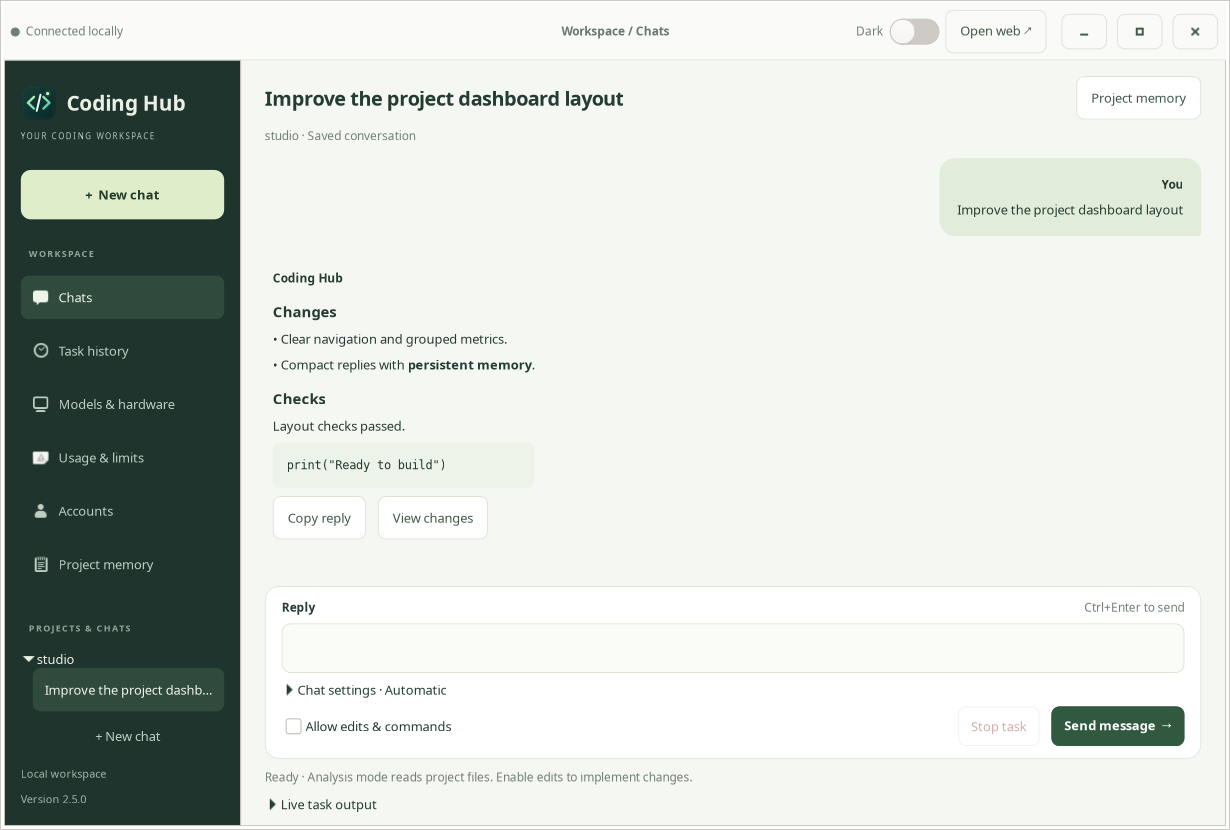
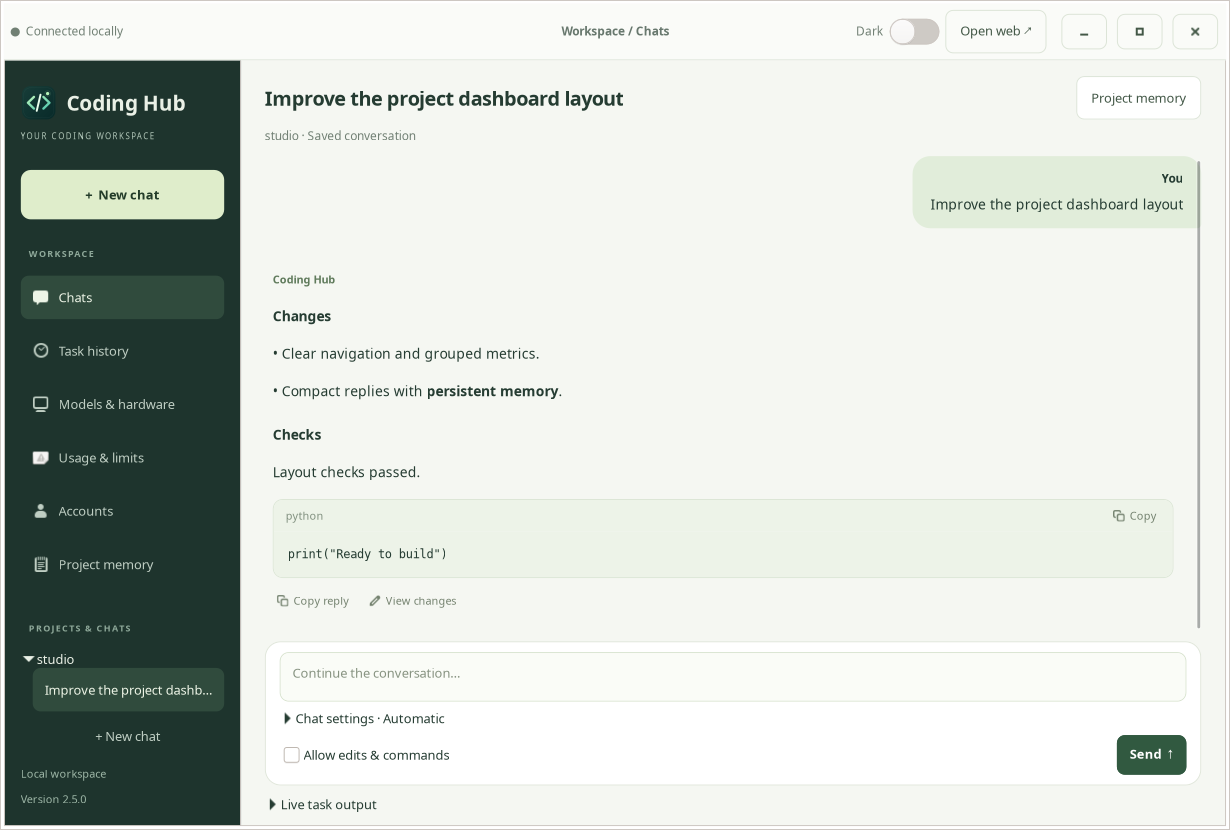
Polish native conversations and fix desktop browser launching

diff --git a/assets/desktop.css b/assets/desktop.css
@@ -97,3 +97,22 @@ window.dark { background: #151d1a; color: #e1e9e3; }
 .assistant-message, .dark .assistant-message { background: transparent; border: none; padding: 14px 8px; }
 .review-code { font-size: 12px; padding: 12px; }
 .dark .review-code text { background: #131e17; color: #e1e9e3; }
+
+/* Match the browser's quiet conversation controls and wide reading area. */
+.conversation-page .composer { padding: 10px 14px; border-radius: 16px; }
+.conversation-page .message-row { padding: 6px 0; }
+.reply-text { font-size: 14px; }
+.assistant-message .chat-title { color: #607b5c; font-size: 11px; }
+.dark .assistant-message .chat-title { color: #b2cba3; }
+.user-message { padding: 14px 18px; border-radius: 18px 18px 4px 18px; }
+.message-action, .dark .message-action { min-height: 0; min-width: 0; padding: 3px 4px; border: none; border-radius: 4px; box-shadow: none; background: transparent; color: #74826f; font-size: 11px; font-weight: 400; }
+.message-action:hover { background: #eaf0e5; color: #365538; }
+.dark .message-action { color: #9daf9e; }
+.dark .message-action:hover { background: #263b2b; color: #d6e8cf; }
+.reply-code-frame { border: 1px solid #dce6d6; border-radius: 10px; margin-top: 4px; margin-bottom: 4px; }
+.reply-code-heading { background: #edf3e8; padding: 5px 12px; border-radius: 9px 9px 0 0; }
+.reply-code-frame .reply-code { padding: 14px; border-radius: 0 0 9px 9px; font-size: 12px; }
+.dark .reply-code-frame { border-color: #354b39; }
+.dark .reply-code-heading { background: #293d2c; }
+.prompt-placeholder { color: #879381; font-size: 13px; }
+.dark .prompt-placeholder { color: #99aa99; }

diff --git a/desktop.py b/desktop.py
@@ -13,7 +13,6 @@ import sys
 import time
 import urllib.error
 import urllib.request
-import webbrowser
 
 import dashboard
 import hub
@@ -44,10 +43,36 @@ def ensure_server(port=8765):
     raise RuntimeError("The dashboard could not start. Check " + str(directory / "server.log"))
 
 
+def prepare_browser_environment():
+    """Include desktop registrations omitted by minimal SSH launch environments."""
+    existing = os.environ.get('XDG_DATA_DIRS', '/usr/local/share:/usr/share').split(':')
+    candidates = [Path.home()/'.local/share/flatpak/exports/share',
+                  Path('/var/lib/flatpak/exports/share'), Path('/var/lib/snapd/desktop')]
+    additions = [str(path) for path in candidates if path.is_dir() and str(path) not in existing]
+    os.environ['XDG_DATA_DIRS'] = ':'.join(existing + additions)
+
+
+def launch_browser(Gtk, Gdk, Gio, parent, url, finished):
+    """Launch through the desktop session and report asynchronous failure."""
+    if hasattr(Gtk, 'UriLauncher'):
+        launcher = Gtk.UriLauncher.new(url)
+        def complete(source, result, *_):
+            try: finished(bool(source.launch_finish(result)), None)
+            except Exception as error: finished(False, str(error))
+        launcher.launch(parent, None, complete)
+    else:
+        context = Gdk.Display.get_default().get_app_launch_context()
+        def complete(source, result, *_):
+            try: finished(bool(Gio.AppInfo.launch_default_for_uri_finish(result)), None)
+            except Exception as error: finished(False, str(error))
+        Gio.AppInfo.launch_default_for_uri_async(url, context, None, complete)
+
+
 def launch(port=8765):
     if not sys.platform.startswith("linux"):
         print("The native app requires Linux. Opening the browser interface on this platform.")
         return dashboard.serve(port)
+    prepare_browser_environment()
     try:
         import gi
         gi.require_version("Gtk", "4.0")
@@ -81,7 +106,7 @@ def launch(port=8765):
     return application.run([])
 
 
-def create_application(Gtk, Gdk, Gio, GLib, api, url):
+def create_application(Gtk, Gdk, Gio, GLib, api, url, browser_launcher=None):
     """Build native widgets independently of transport for isolated UI validation."""
     from gi.repository import Pango
     routes = ("auto", "antigravity", "free", "local", "smart", "claude", "openai")
@@ -191,7 +216,8 @@ def create_application(Gtk, Gdk, Gio, GLib, api, url):
             self.connection = self.label('Connecting…', 'muted')
             self.connection.set_wrap(False)
             header.pack_start(self.connection)
-            header.pack_end(self.button('Open web ↗', lambda *_: webbrowser.open(url)))
+            self.open_web_button = self.button('Open web ↗', self.open_web)
+            header.pack_end(self.open_web_button)
             self.theme_switch = Gtk.Switch(valign=Gtk.Align.CENTER)
             self.theme_switch.set_tooltip_text('Dark mode')
             theme_row = self.row(7)
@@ -284,7 +310,7 @@ def create_application(Gtk, Gdk, Gio, GLib, api, url):
             project_row.append(self.browse_button)
             self.project_card.append(project_row)
             body.append(self.project_card)
-            self.chat_messages = Gtk.Box(orientation=Gtk.Orientation.VERTICAL, spacing=12)
+            self.chat_messages = Gtk.Box(orientation=Gtk.Orientation.VERTICAL, spacing=18)
             self.chat_scroll = Gtk.ScrolledWindow(min_content_height=120, vexpand=True)
             self.chat_scroll.set_policy(Gtk.PolicyType.NEVER, Gtk.PolicyType.AUTOMATIC)
             self.chat_scroll.set_child(self.chat_messages)
@@ -302,6 +328,7 @@ def create_application(Gtk, Gdk, Gio, GLib, api, url):
             self.composer = composer
             self.composer_title = self.label('Your message', 'section-title')
             composer_heading = self.row()
+            self.composer_heading = composer_heading
             self.composer_title.set_hexpand(True)
             composer_heading.append(self.composer_title)
             composer_heading.append(self.label('Ctrl+Enter to send', 'muted'))
@@ -314,7 +341,17 @@ def create_application(Gtk, Gdk, Gio, GLib, api, url):
             prompt_scroll = self.prompt_scroll
             prompt_scroll.add_css_class('input-frame')
             prompt_scroll.set_child(self.prompt)
-            composer.append(prompt_scroll)
+            overlay = Gtk.Overlay()
+            overlay.set_child(prompt_scroll)
+            self.prompt_placeholder = self.label('Describe what you want to build, fix, or understand…', 'prompt-placeholder')
+            self.prompt_placeholder.set_halign(Gtk.Align.START)
+            self.prompt_placeholder.set_valign(Gtk.Align.START)
+            self.prompt_placeholder.set_margin_start(13)
+            self.prompt_placeholder.set_margin_top(12)
+            self.prompt_placeholder.set_can_target(False)
+            overlay.add_overlay(self.prompt_placeholder)
+            self.prompt.get_buffer().connect('changed', lambda buffer: self.prompt_placeholder.set_visible(buffer.get_char_count() == 0))
+            composer.append(overlay)
             options = self.row()
             route_label = self.label('Route', 'muted')
             route_label.set_wrap(False)
@@ -347,7 +384,8 @@ def create_application(Gtk, Gdk, Gio, GLib, api, url):
             footer.append(Gtk.Box(hexpand=True))
             self.stop_button = self.button('Stop task', self.stop, 'danger')
             self.stop_button.set_sensitive(False)
-            self.run_button = self.button('Send message  →', self.run_task, 'primary')
+            self.stop_button.set_visible(False)
+            self.run_button = self.button('Send  ↑', self.run_task, 'primary')
             footer.append(self.stop_button)
             footer.append(self.run_button)
             composer.append(footer)
@@ -478,6 +516,9 @@ def create_application(Gtk, Gdk, Gio, GLib, api, url):
             self.project.set_editable(not existing)
             self.browse_button.set_sensitive(not existing)
             self.composer_title.set_text('Reply' if existing else 'Your message')
+            self.composer_heading.set_visible(not existing)
+            self.prompt_placeholder.set_text('Continue the conversation…' if existing else 'Describe what you want to build, fix, or understand…')
+            self.activity.set_visible(not existing)
             self.prompt_scroll.set_min_content_height(48 if existing else 72)
             self.chat_footnote.set_visible(not existing)
             if self.chat_layout != existing:
@@ -669,6 +710,8 @@ def create_application(Gtk, Gdk, Gio, GLib, api, url):
             elapsed = int((task.get("ended_at") or time.time()) - (task.get("started_at") or task["created_at"]))
             self.activity.set_text(f"{task['status'].capitalize()} · {elapsed // 60}m {elapsed % 60}s · {task['backend']} · {task['project']}")
             self.stop_button.set_sensitive(task["status"] in ("queued", "running"))
+            self.stop_button.set_visible(task['status'] in dashboard.ACTIVE)
+            self.output_details.set_label('Task activity · ' + task['status'].replace('_', ' ').capitalize() + ' · ' + str(elapsed // 60) + 'm ' + str(elapsed % 60) + 's')
             output = task.get("output", "")
             if output != self.last_output:
                 self.last_output = output
@@ -811,18 +854,22 @@ def create_application(Gtk, Gdk, Gio, GLib, api, url):
                 user = role == 'You'
                 row = self.row(0)
                 row.add_css_class('message-row')
+                row.set_hexpand(True)
                 card = Gtk.Box(orientation=Gtk.Orientation.VERTICAL, spacing=8)
-                card.set_halign(Gtk.Align.END if user else Gtk.Align.START)
+                card.set_halign(Gtk.Align.END if user else Gtk.Align.FILL)
+                card.set_hexpand(not user)
                 card.add_css_class('user-message' if user else 'assistant-message')
                 speaker = self.label(role, 'chat-title')
                 speaker.set_xalign(1 if user else 0)
                 card.append(speaker)
-                for kind, value in ([('paragraph', text)] if user else blocks(text)):
+                for kind, value in ([('paragraph', text)] if user else blocks(text, with_languages=True)):
+                    language, value = value if kind == 'code' else ('', value)
                     content = self.label(value)
                     content.set_selectable(True)
-                    content.set_max_width_chars(56 if user else 72)
+                    content.set_max_width_chars(56 if user else -1)
+                    content.add_css_class('reply-text')
                     if not user and kind != 'code':
-                        content.set_markup(inline_markup(value))
+                        content.set_markup('<span line_height="1.5">' + inline_markup(value) + '</span>')
                     if kind == 'heading':
                         content.add_css_class('reply-heading')
                     if kind == 'code':
@@ -831,18 +878,28 @@ def create_application(Gtk, Gdk, Gio, GLib, api, url):
                         code_scroll = Gtk.ScrolledWindow(max_content_height=220, propagate_natural_height=True)
                         code_scroll.set_policy(Gtk.PolicyType.AUTOMATIC, Gtk.PolicyType.AUTOMATIC)
                         code_scroll.set_child(content)
-                        card.append(code_scroll)
+                        code_box = Gtk.Box(orientation=Gtk.Orientation.VERTICAL, spacing=0)
+                        code_box.add_css_class('reply-code-frame')
+                        code_heading = self.row(12)
+                        code_heading.add_css_class('reply-code-heading')
+                        code_title = self.label(language or 'Code', 'footnote')
+                        code_title.set_hexpand(True)
+                        code_heading.append(code_title)
+                        code_heading.append(self.message_action('Copy', 'edit-copy-symbolic', lambda *_, code=value: Gdk.Display.get_default().get_clipboard().set(code)))
+                        code_box.append(code_heading)
+                        code_box.append(code_scroll)
+                        card.append(code_box)
                     else:
                         card.append(content)
                 if not user and turn:
                     actions = self.row(12)
-                    actions.append(self.button('Copy reply', lambda *_: Gdk.Display.get_default().get_clipboard().set(text)))
+                    actions.append(self.message_action('Copy reply', 'edit-copy-symbolic', lambda *_: Gdk.Display.get_default().get_clipboard().set(text)))
                     if turn.get('has_review'):
-                        actions.append(self.button('View changes', lambda *_, task=turn['task']: self.open_changes(task)))
+                        actions.append(self.message_action('View changes', 'document-edit-symbolic', lambda *_, task=turn['task']: self.open_changes(task)))
                     card.append(actions)
                 if status and status != 'completed':
                     card.append(self.label(status.replace('_', ' ').capitalize(), 'footnote'))
-                gutter = Gtk.Box(hexpand=True, width_request=65)
+                gutter = Gtk.Box(hexpand=user, width_request=65 if user else 20)
                 if user:
                     row.append(gutter)
                 row.append(card)
@@ -870,6 +927,34 @@ def create_application(Gtk, Gdk, Gio, GLib, api, url):
                     self.chat_scrolled(adjustment)
                     return False
                 GLib.idle_add(preserve_position, priority=GLib.PRIORITY_LOW)
+
+        def message_action(self, text, icon, callback):
+            button = self.button('', callback, 'message-action')
+            row = self.row(5)
+            picture = Gtk.Image.new_from_icon_name(icon)
+            picture.set_pixel_size(12)
+            row.append(picture)
+            title = self.label(text)
+            title.set_wrap(False)
+            row.append(title)
+            button.set_child(row)
+            button.set_tooltip_text(text)
+            return button
+
+        def open_web(self, *_):
+            self.open_web_button.set_sensitive(False)
+            self.open_web_button.set_label('Opening…')
+            def finished(ok, error):
+                if self.closed_window: return
+                self.open_web_button.set_sensitive(True)
+                self.open_web_button.set_label('Open web ↗')
+                if not ok:
+                    self.error.set_text('Could not open your browser. Check the default web browser in Linux Settings → Default Apps, then try again.' + (' ' + str(error)[:180] if error else ''))
+                    self.error.set_visible(True)
+            try:
+                (browser_launcher or launch_browser)(Gtk, Gdk, Gio, self.window, url, finished)
+            except Exception as error:
+                finished(False, str(error))
 
         def open_changes(self, task):
             project = self.conversation_project

diff --git a/tools/check_desktop_ui.py b/tools/check_desktop_ui.py
@@ -46,6 +46,7 @@ def main():
             'output': 'Updated the dashboard spacing and navigation.\nValidation passed.'}
     conversation = {'id': 'preview-chat', 'project': project, 'goal': task['prompt'], 'total_turns': 1,
                     'turns': [{'rowid': 1, 'task': 'preview-task', 'has_review': True, 'request': task['prompt'], 'result': '## Changes\n- Clear navigation and grouped metrics.\n- Compact replies with **persistent memory**.\n\n## Checks\nLayout checks passed.\n\n```python\nprint("Ready to build")\n```', 'status': 'completed'}]}
+    sample_conversation = json.loads(json.dumps(conversation))
     requests = []
 
     def api(path, body=None):
@@ -77,7 +78,11 @@ def main():
     with tempfile.TemporaryDirectory(prefix='coding-hub-ui-') as temporary:
         old_state = hub.STATE
         hub.STATE = Path(temporary)
-        app = desktop.create_application(Gtk, Gdk, Gio, GLib, api, 'http://127.0.0.1:8765/')
+        browser_requests = []
+        def browser_launcher(Gtk, Gdk, Gio, parent, url, finished):
+            browser_requests.append(url)
+            finished(True, None)
+        app = desktop.create_application(Gtk, Gdk, Gio, GLib, api, 'http://127.0.0.1:8765/', browser_launcher=browser_launcher)
         try:
             app.register(None)
             app.activate()
@@ -86,6 +91,10 @@ def main():
             assert not app.error.get_visible(), app.error.get_text()
             assert app.connection.get_text() == '●  Connected locally'
             assert not app.release_button.get_sensitive()
+            app.open_web_button.emit('clicked')
+            assert browser_requests == ['http://127.0.0.1:8765/']
+            assert app.open_web_button.get_sensitive()
+            assert not app.error.get_visible()
             for width in (1240, 980):
                 app.window.set_default_size(width, 840)
                 for page in ('workspace', 'usage', 'models', 'history', 'memory', 'accounts'):
@@ -118,9 +127,13 @@ def main():
                 assert user_card.has_css_class('user-message')
                 assert assistant_card.has_css_class('assistant-message')
                 assert user_card.get_halign() == Gtk.Align.END
-                assert assistant_card.get_halign() == Gtk.Align.START
+                assert assistant_card.get_halign() == Gtk.Align.FILL
                 assert user_card.get_width() < app.chat_scroll.get_width() - 50
-                assert assistant_card.get_width() < app.chat_scroll.get_width() - 50
+                assert app.chat_scroll.get_width() * .85 < assistant_card.get_width() < app.chat_scroll.get_width() - 12
+                actions = assistant_card.get_last_child()
+                assert actions.get_first_child().get_height() < 30, 'Reply actions should remain subtle'
+                assert not app.composer_heading.get_visible()
+                assert app.prompt_placeholder.get_visible()
                 paintable = Gtk.WidgetPaintable.new(app.window)
                 snapshot = Gtk.Snapshot()
                 paintable.snapshot(snapshot, app.window.get_width(), app.window.get_height())
@@ -205,6 +218,14 @@ def main():
             app.theme_switch.set_active(True)
             assert json.loads(app.preferences_path.read_text())['dark'] is True
             assert app.window.has_css_class('dark')
+            app.tasks = [task]
+            app.selected = task['id']
+            app.show_task(task)
+            app.message_archive = {}
+            app.message_signature = None
+            app.render_messages(sample_conversation)
+            app.jump_to_latest()
+            settle()
             for page in ('workspace','models','accounts'):
                 app.stack.set_visible_child_name(page)
                 settle()

diff --git a/test_desktop.py b/test_desktop.py
@@ -22,6 +22,15 @@ class DesktopTests(unittest.TestCase):
                     self.assertIsNone(dashboard.session_url())
                     request.assert_not_called()
 
+    def test_browser_registration_paths_are_preserved_and_extended(self):
+        with patch.dict(os.environ, {'XDG_DATA_DIRS':'/custom/share:/usr/share'}), patch.object(Path, 'is_dir', return_value=True):
+            desktop.prepare_browser_environment()
+            paths = os.environ['XDG_DATA_DIRS'].split(':')
+            self.assertEqual(paths[:2], ['/custom/share','/usr/share'])
+            self.assertIn('/var/lib/snapd/desktop', paths)
+            desktop.prepare_browser_environment()
+            self.assertEqual(os.environ['XDG_DATA_DIRS'].split(':'), paths)
+
     @unittest.skipIf(os.name == "nt", "Unix background server lifecycle")
     def test_app_starts_a_real_server_then_reuses_it(self):
         children = []

diff --git a/message_format.py b/message_format.py
@@ -17,7 +17,7 @@ def clean_reply(text):
     return ''.join(pieces).strip()
 
 
-def blocks(text):
+def blocks(text, with_languages=False):
     result, paragraph, code, language, fenced = [], [], [], '', False
     def flush():
         if paragraph:
@@ -26,7 +26,7 @@ def blocks(text):
     for line in clean_reply(text).splitlines():
         if line.startswith('```'):
             if fenced:
-                result.append(('code', '\n'.join(code)))
+                result.append(('code', (language, '\n'.join(code)) if with_languages else '\n'.join(code)))
                 code.clear()
             else:
                 flush()
@@ -50,7 +50,7 @@ def blocks(text):
             paragraph.append(line)
     flush()
     if code:
-        result.append(('code', '\n'.join(code)))
+        result.append(('code', (language, '\n'.join(code)) if with_languages else '\n'.join(code)))
     return result
 
 

diff --git a/README.md b/README.md
@@ -39,8 +39,8 @@ The native Linux app uses the same workspace organization, with dedicated pages 
 2. Choose **New chat**, select an existing project folder, and describe the task. Existing chats keep their original project.
 3. Expand **Chat settings**. Select a route and then a model. Antigravity lists models available to your Google account, including any Claude/GPT options. Free cloud shows currently verified free models; Local shows installed Ollama models. Automatic and Smart select models for their stages.
 4. Leave **Allow edits & commands** off for explanations. Enable it to let the agent modify project files and run commands.
-5. Click **Send message** or press **Ctrl+Enter** in the message box. Enter adds a line. **Ctrl+N** starts a new chat.
-6. Replies format headings, lists, inline code, and code blocks. The compact composer stays below the conversation. Sending moves to the newest message; scrolling up pauses following. **Latest messages** returns to the bottom.
+5. Click **Send** or press **Ctrl+Enter** in the message box. Enter adds a line. **Ctrl+N** starts a new chat.
+6. Replies format headings, lists, inline code, and code blocks. Replies span the reading area, with small copy/review actions beneath them and language labels on code blocks. The compact composer stays below the conversation. Sending moves to the newest message; scrolling up pauses following. **Latest messages** returns to the bottom.
 7. Toggle **Dark** in the title bar to save your appearance preference. **Project memory** opens shared requirements for the current project.
 8. **Models & hardware** shows CPU/GPU activity, RAM/VRAM, and loaded model placement. “GPU available” means the driver works; “GPU acceleration in use” means Ollama reports model data on the GPU. GPU activity includes other applications. Samples normally refresh every 3–6 seconds.
 
@@ -295,3 +295,5 @@ Snapshots cover eligible source files, exclude ignored/sensitive-name/binary fil
 A model's **Price verified** status means its published price is zero; it does not guarantee service access. If OpenCode's free service returns “free tier can only be used from within OpenCode” even from the official CLI, choose Antigravity or Local. Related upstream reports include [an official CLI free-tier rejection](https://github.com/anomalyco/opencode/issues/52907). Coding Hub keeps analysis-mode permissions restricted and does not bypass provider access controls.
 
 If Claude reports an expired OAuth session, open **Accounts → Claude → Sign in** and reconnect. “Sign-in saved” only indicates saved sign-in metadata; the provider confirms validity when used. ChatGPT requires an explicit model selection after subscription sign-in.
+
+The native **Open web** action uses the Linux desktop’s browser launcher and reports launch errors. Snap and Flatpak browser registrations are recognized even when the app was started over SSH. If no browser is configured, choose one in Linux **Settings → Default Apps**.
